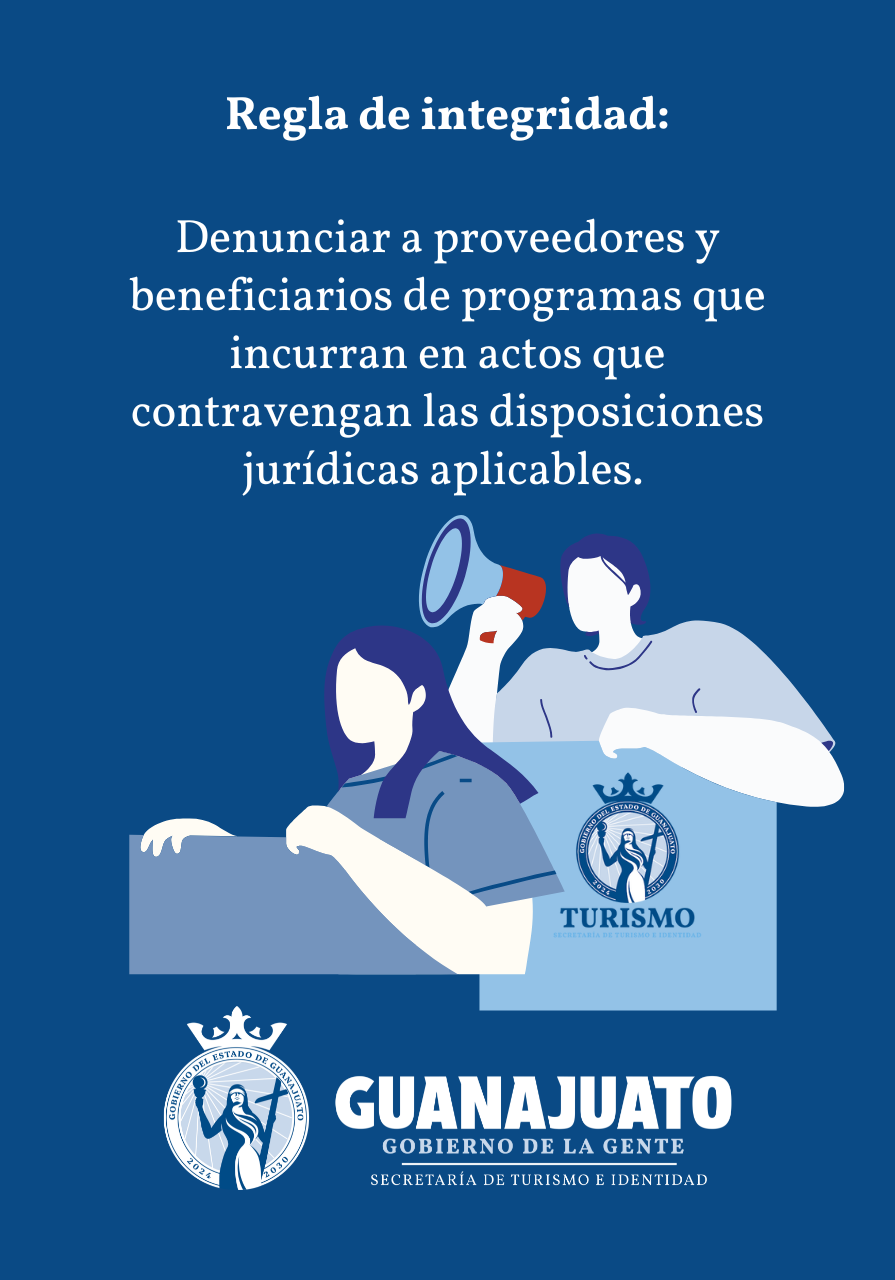
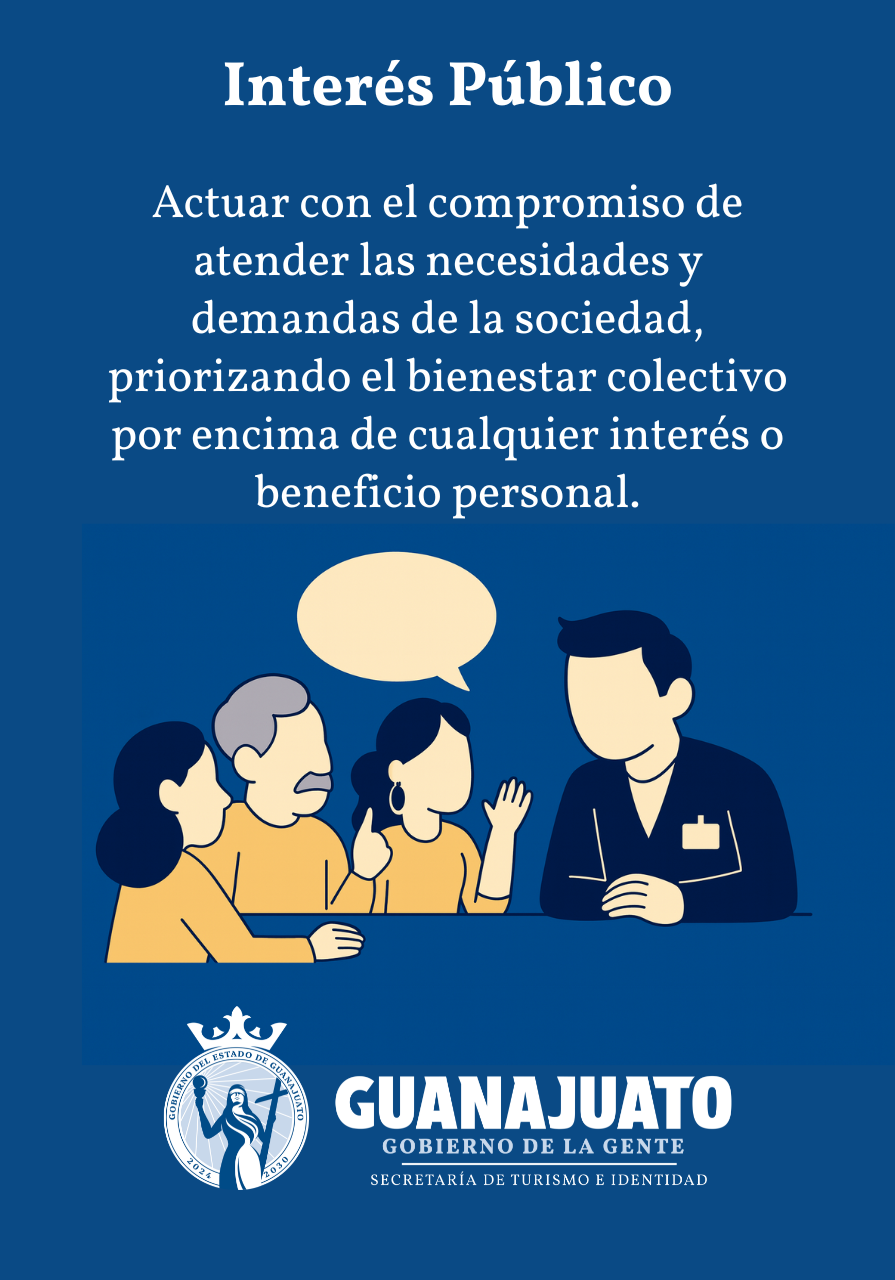
pagos 47 de 100

Changed region(s): [[0.0905, 0.125, 0.9654, 0.8125], [0.2413, 0.0312, 0.7542, 0.125]]

diff --git a/app/Views/personal/vDenuncia.php b/app/Views/personal/vDenuncia.php
@@ -34,31 +34,35 @@
                                        <div class="row">
                                             <!-- Dirección Responsable -->
                                             <div class="col-md-6 mb-6">
-                                                <label for="nombre">Indicar su Nombre completo</label>
+                                                <label for="nombre">Nombre</label>
                                                 <input id="nombre" class="form-control" name="nombre" value="<?= $session->nombre_completo ?>" >
                                              
                                             </div><!--end col-->
                                             
-                                            <!-- Tipo de PT -->
                                             <div class="col-md-6 mb-6">
-                                                <label for="domicilio">Domicilio personal</label>
-                                                <input id="domicilio" class="form-control" name="domicilio" placeholder="Col. la joya, calle florida #12"  >
-                                               
+                                               <label for="correo">Correo electrónico para recibir informes o notificaciones del seguimiento</label>
+                                                <input type="text" class="form-control" id="correo" value="<?= $session->correo ?>"  name="correo" >
+                                        
                                             </div><!--end col-->
                                          
                                         </div><!--end form-row-->
                                         <div class="row">
                                             <div class="col-md-6 mb-6">
-                                                <label for="correo">Correo electrónico para recibir informes o notificaciones del seguimiento<span style="color:red;">*</span></label>
-                                                <input type="text" class="form-control" id="correo" value="<?= $session->correo ?>"  name="correo" >
+                                                <label for="correo">¿Deseas que tu denuncia sea anónima?</label><span style="color:red;">*</span>
+                                                <select class="form-control">
+                                                    <option>NO</option>
+                                                    <option>SI</option>
+                                                </select>
                                         
                                             </div><!--end col-->
                                             <div class="col-md-6 mb-6">
-                                                <label for="telefono">Número Telefónico</label>
-                                                <input type="text" class="form-control" id="telefono" placeholder="XXX-XXX-XX-XX" name="telefono" >
+                                                
                                             </div><!--end col-->
+                                           
                                         </div><!--end form-row-->
-                                        <div class="row">
+                                    
+                                          <h3 class="mt-0 header-title">NARRACIÓN DE LOS HECHOS<strong></strong></h3>
+                                              <div class="row">
                                             <div class="col-md-6 mb-6">
                                                 <label for="donde_ocurrieron">¿Dónde ocurrieron los hechos?<span style="color:red;">*</span></label>
                                                 <input type="text" class="form-control" id="donde_ocurrieron" name="donde_ocurrieron" >
@@ -100,18 +104,24 @@
                                                 <input type="text" class="form-control" id="denunciando_text" name="denunciando_text" placeholder="Ingrese nombre">
                                             </div><!--end col-->
                                         </div><!--end form-row-->
-
                                         <div class="row">
-                                           
-                                            <div class="col-md-12 mb-6">
+                                            <div class="col-md-6 mb-6">
                                                 <label for="como_ocurrieron">¿Cómo ocurrieron los hechos?<span style="color:red;">*</span></label>
                                                 <textarea class="form-control" id="como_ocurrieron" name="como_ocurrieron" ></textarea>
                                             </div><!--end col-->
+                                            <div class="col-md-6 mb-6">
+                                                <label for="como_ocurrieron">Evidencia en caso de contar con ella</label>
+                                                <input type="file" class="form-control" id="como_ocurrieron" name="como_ocurrieron" ></textinputarea>
+                                            </div><!--end col-->
                                         </div><!--end form-row-->
+                                        <br>
+                                        <center>
+                                        <h6 class="mt-0">Todas las denuncias serán tratadas con confidencialidad, respeto y seriedad.<br>
+Tu participación contribuye a fortalecer una cultura de ética, integridad y confianza en la Secretaría de Turismo e Identidad.</h6>  </center>
                                
                                <a class="btn btn-gradient-danger" style="color:white" onclick="window.history.back()">Atrás</a>
                       
-                                <a href="javascript:void(0)" class="btn btn-gradient-primary text-white" id="btnDenuncia" onclick="ini.inicio.formDenuncia();">Guardar</a>
+                                <a href="javascript:void(0)" class="btn btn-gradient-primary text-white" id="btnDenuncia" onclick="ini.inicio.formDenuncia();">Enviar</a>
                          
                             </form> <!--end form-->                                          
                         </div><!--end card-body-->

diff --git a/app/Controllers/Inicio.php b/app/Controllers/Inicio.php
@@ -565,7 +565,7 @@ class Inicio extends BaseController {
             $consecutivo = $globals->getTabla(['tabla' => 'consecutivo', 'where' => ['visible' => 1], 'orderBy' => 'id_consecutivo DESC']);
             $conse = (isset($consecutivo->data) && !empty($consecutivo->data)) ? $consecutivo->data[0]->no_consecutivo : '';
             $data['consecutivo'] = $conse + 1; 
-            $presupuesto = $globals->getTabla(['tabla' => 'vw_presupuesto', 'where' => ['id_reserva' => $id_reserva]]);
+            $presupuesto = $globals->getTabla(['tabla' => 'vw_pagos', 'where' => ['id_registro_pt' => $id_registro_pt]]);
             foreach ($presupuesto->data as $i => $p) {
                 if ($p->id_partida >= 149 && $p->id_partida <= 248) {
                     $partida4000 = true;

diff --git a/app/Views/personal/vInicio.php b/app/Views/personal/vInicio.php
@@ -581,7 +581,7 @@
                                             <div class="card">
                                                 <div class="card-body">
                                                     <div class="blog-card">
-                                                        <img src="<?= base_url() ?>assets/images/sep3.jpg" alt=""
+                                                        <img src="<?= base_url() ?>assets/images/sep.png" alt=""
                                                             class="img-fluid" />
                                                     </div><!--end blog-card-->
 
